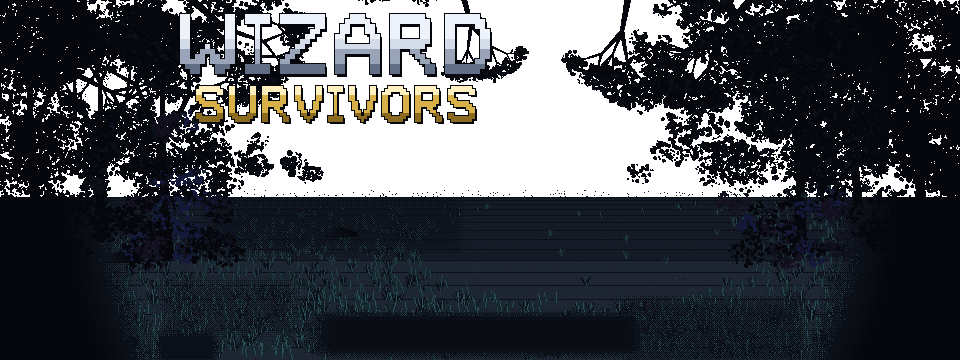
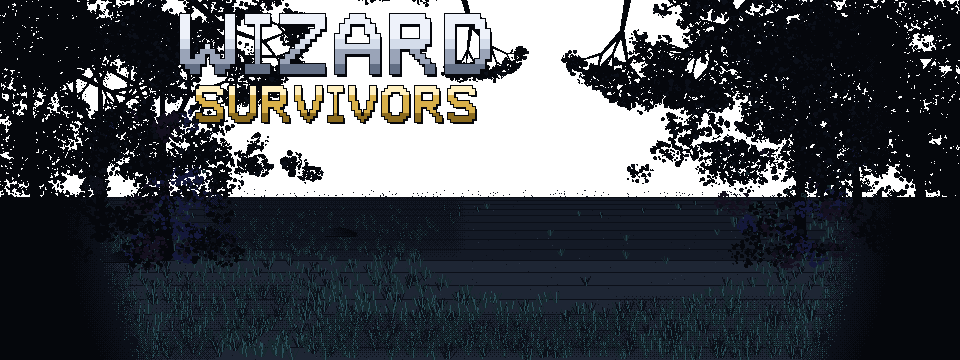
Title (PC): the grass under the ward is lit to the frame, not a dark slab (Eric)
The pockets behind the bottom text were what made it; a render without them shows
lit grass and bushes right down. They are now a light stone.deep dither (2.2-2.4);
the prompt's own drop shadow keeps it readable.

Changed region(s): [[0.1562, 0.7639, 0.8438, 1.0]]

diff --git a/tools/art/splash_wide.py b/tools/art/splash_wide.py
@@ -98,8 +98,14 @@ def ui_pocket_t(x, y):
     # bitmap type, and the only thing here on screen when the menu is not. It sits in open, lit
     # grass under the ward, where any edge shows: a long fade along the row, but only 16 up - 34
     # climbed into the ring and dimmed its bottom flame, and the ring is about 20 rows above it.
-    return max(_box_t(x, y, PROMPT_BOX, 3.3, 40, 16), _box_t(x, y, DETAIL_BOX, 2.6, 24),
-               _box_t(x, y, OPTIONS_BOX, 2.4, 22), _box_t(x, y, VERSION_BOX, 3.0, 14),
+    #
+    # LIGHT, NOT BLACK, below the ward (Eric, 2026-11-02, after the line was gone: "there is still a
+    # big dark patch underneath"). With no pockets at all the ward's light reaches lit grass and
+    # bushes right down to the frame, and the pockets alone were what made the black slab. The
+    # prompt carries its own occ drop shadow and the menu's bottom row are framed buttons and an
+    # outlined label, so the pockets under the ring are now a light dither of stone.deep only.
+    return max(_box_t(x, y, PROMPT_BOX, 2.35, 40, 16), _box_t(x, y, DETAIL_BOX, 2.2, 24),
+               _box_t(x, y, OPTIONS_BOX, 2.2, 22), _box_t(x, y, VERSION_BOX, 2.4, 14),
                _box_t(x, y, MENU_BOX, 2.6, 20))
     # ARCANE_BOX keeps its place in the layout table but no pocket: nothing has stood there since
     # the readout became the shop button's caption, and the regeneration of 2026-11-02 dropped it.

diff --git a/.ai/title-screen.md b/.ai/title-screen.md
@@ -818,7 +818,11 @@ nothing and crossed grass-to-occlusion in the last few pixels - the prompt pocke
 through the grass under the ward until 2026-11-02 (Eric: "still has a distinct line in the grass").
 Each pocket now runs from t = 2 at its edge, eased, to its strength at the box; the prompt's fades
 40 along the row but only 16 up, because the ring is about 20 rows above it and a longer fade
-dimmed its bottom flame. The boxes in `splash_wide.py` and the numbers in
+dimmed its bottom flame. **And the pockets under the ward are light**, a dither of `stone.deep` only (strengths
+2.2-2.4): with the line gone Eric still saw "a big dark patch underneath", and a render with no
+pockets at all showed that the pockets alone made it - the ward lights grass and bushes right down
+to the frame. PRESS ANY BUTTON carries its own `occ` drop shadow; the menu's bottom row are framed
+buttons and an outlined label. Only `MENU_BOX`, on the dark wood, is still a real pocket. The boxes in `splash_wide.py` and the numbers in
 `MainMenu.PinToWideArt` calls are the same rectangles: **move one, move the other.** In landscape
 a core pixel (x, y) is always at `((x - 320) * 2, (y - 180) * 2)` from the screen centre, so
 `PinToWideArt` takes the core box directly. Portrait keeps `PinToArtRows` exactly as before.
